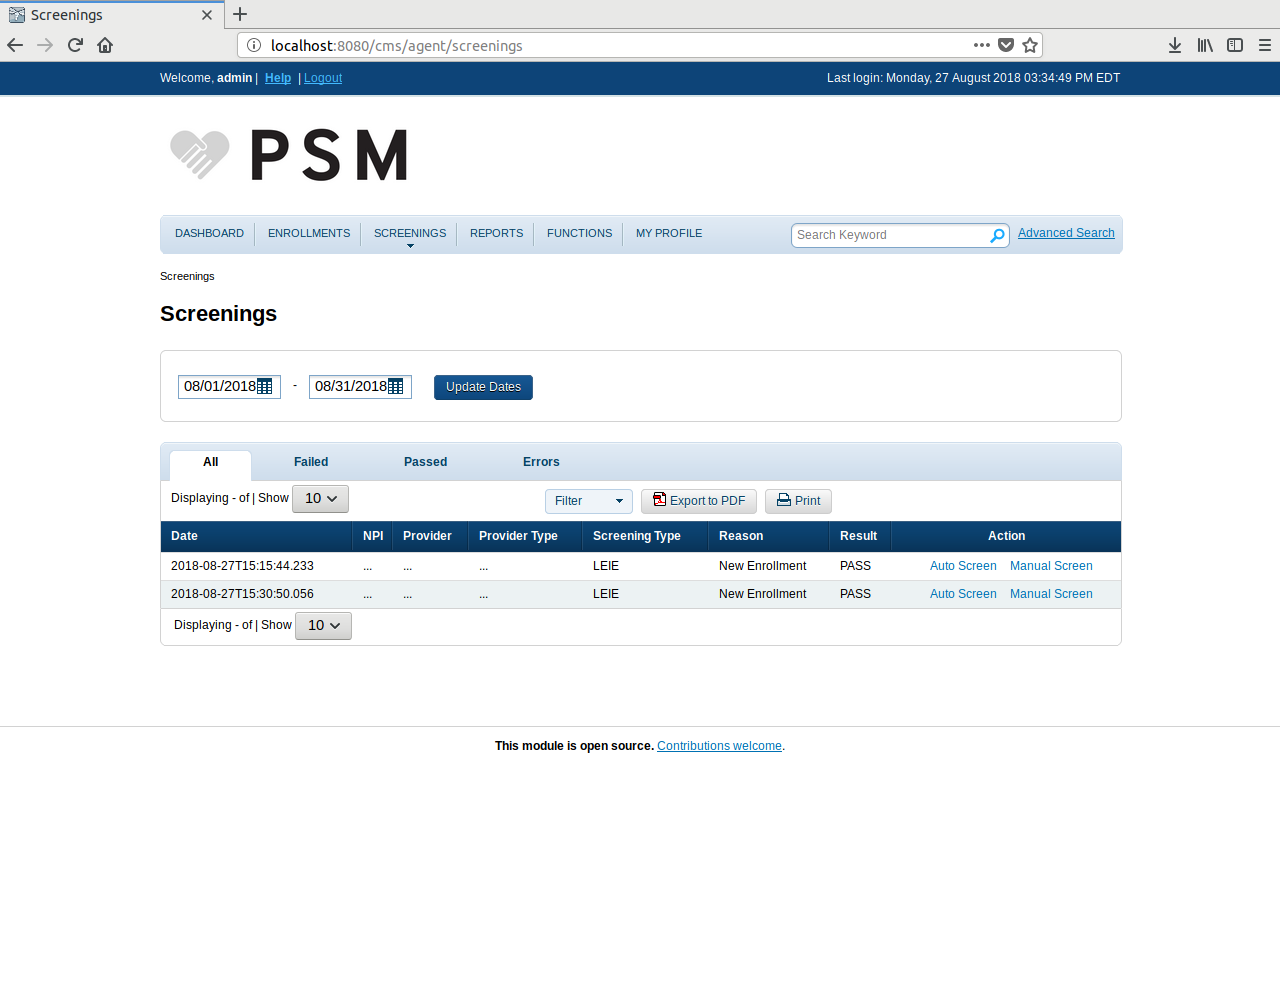
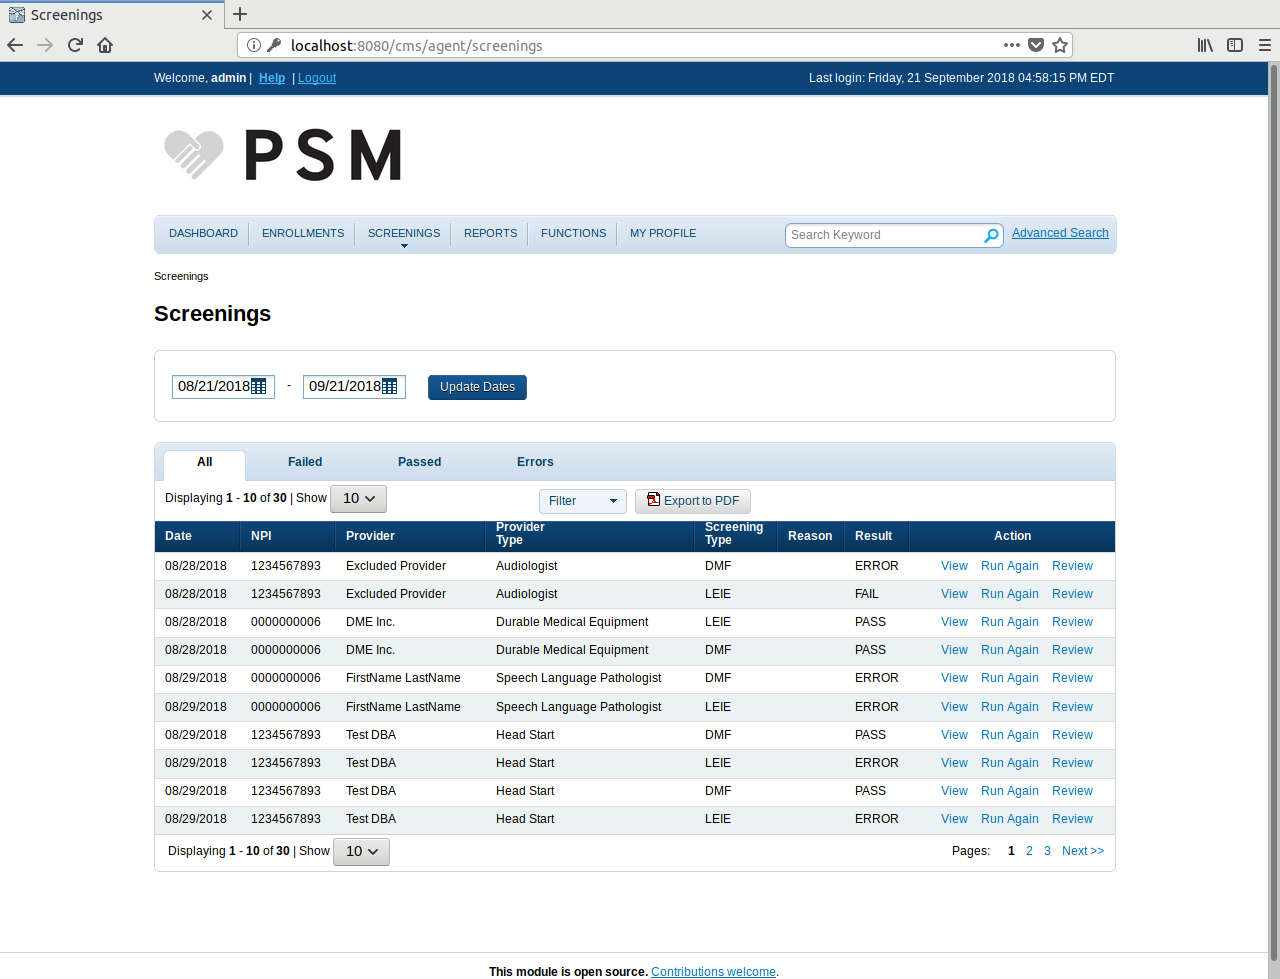
Add Screenings page to Screenshots page

diff --git a/screenshots.html b/screenshots.html
@@ -530,6 +530,26 @@ permalink: /screenshots/
 </p>
 
 <h2>
+  Viewing Screenings
+</h2>
+
+<p>
+  The PSM provides an overview of all screenings that have been done,
+  which can be used to check and then follow-up on the results of
+  automatic monthly re-screenings (this feature is a work in progress):
+</p>
+<p>
+  <a
+    href="/psm-screenshots/service-admin/screenings/screenings.png"
+    class="screenshot-thumbnail"
+  >
+    <img
+      src="/psm-screenshots/service-admin/screenings/screenings.thumb.png"
+    />
+  </a>
+</p>
+
+<h2>
   Viewing Reports
 </h2>
 
